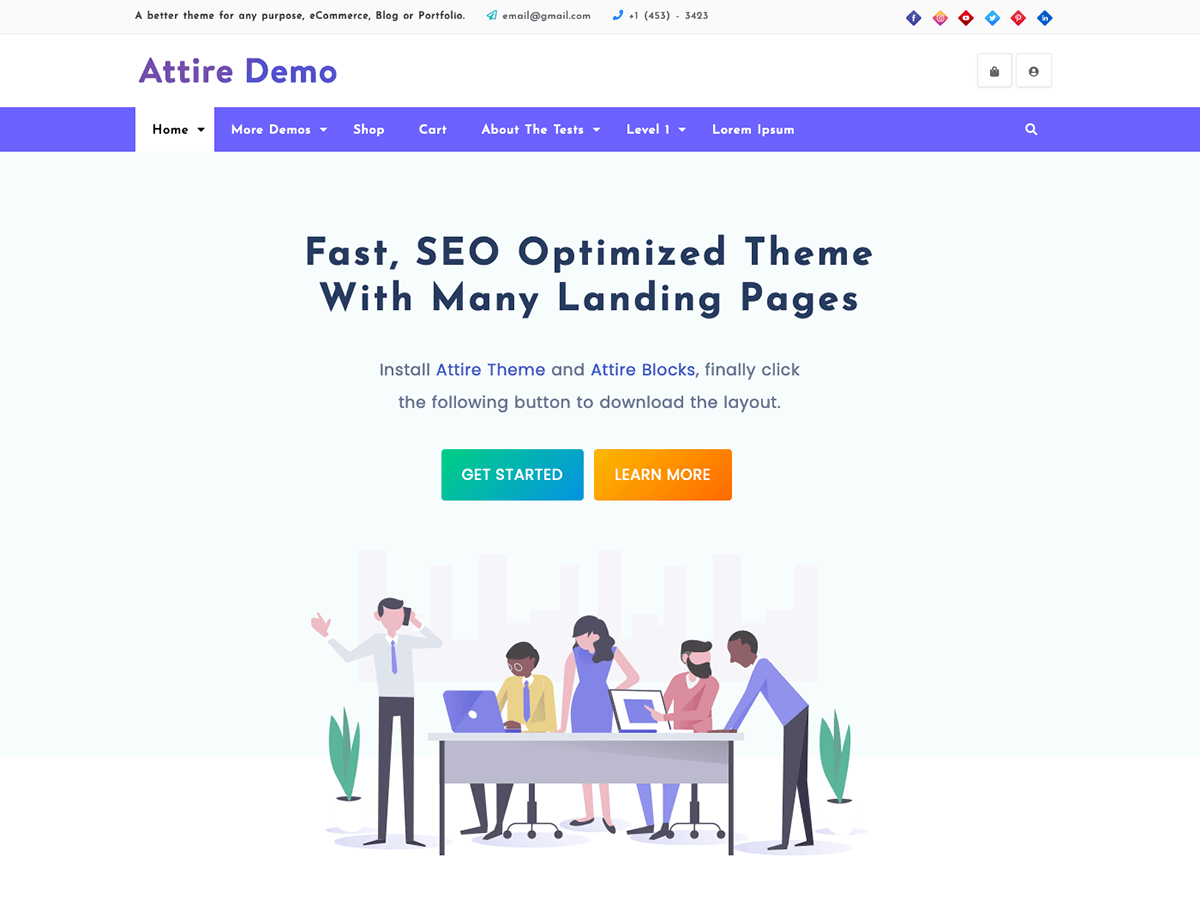
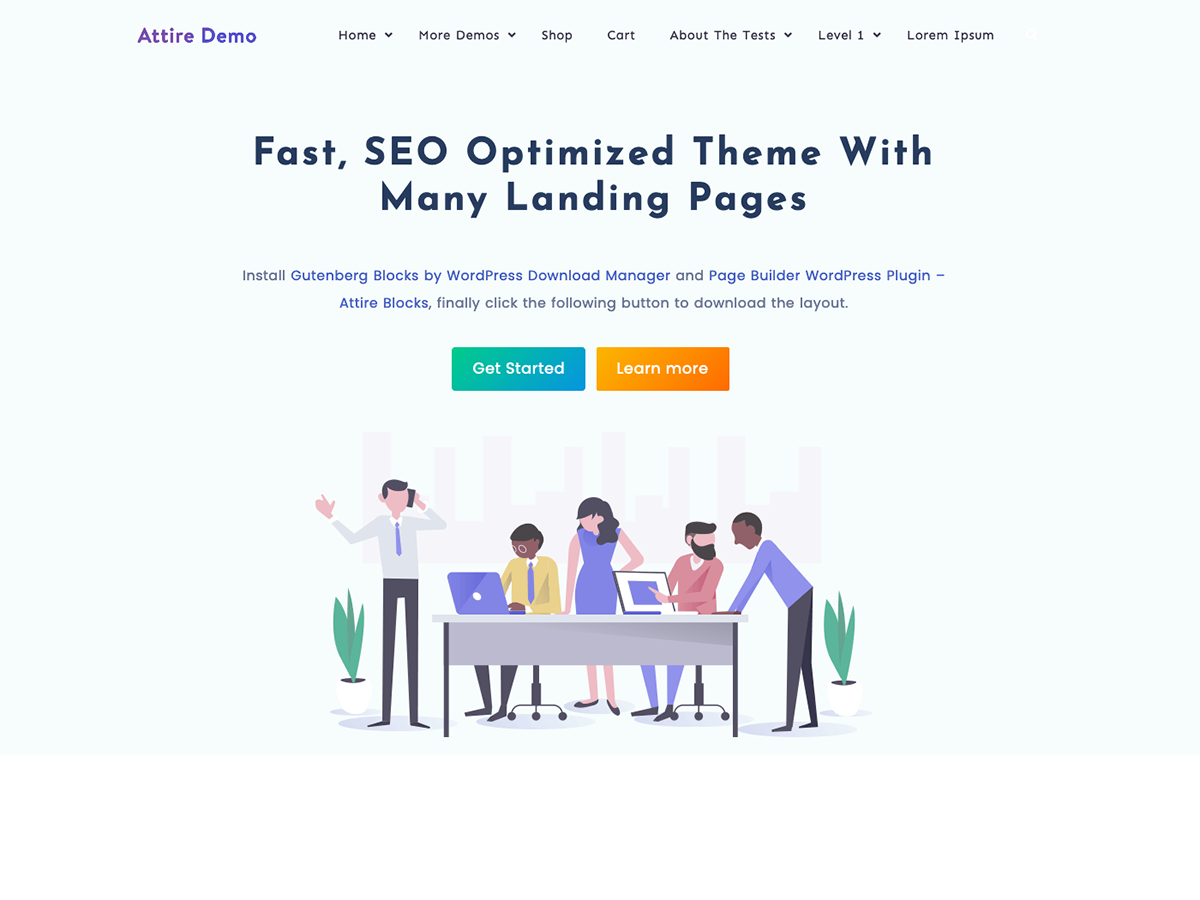
Improved page specific theme settings

diff --git a/style.css b/style.css
@@ -3,7 +3,7 @@ Theme Name: Attire
 Theme URI: https://wpattire.com/
 Description: Attire is a fast, mobile responsive, highly customizable, SEO friendly multipurpose theme. It was built with the Gutenberg editor in mind and offers hundreds of customisation options which allows to make a website look exactly the way you intended. Create any type of website, such as business agency, shop, corporate, education, restaurant, blog, portfolio, landing page and so on. This theme allows to customise pages with google-fonts, page background, page header and sidebars. Try Demo: http://demo.wpattire.com. Attire is # WooCommerce Ready # Gutenberg Block Ready # RTL & Translation Ready # Also Compatible with all major page builders like elementor, divi, visual composer.
 Author: Shafayat
-Version: 1.4.6
+Version: 1.4.7
 Tested up to: 5.4.2
 Requires PHP: 5.6
 License: GNU General Public License v3.0

diff --git a/admin/metaboxes/attire-page-options.php b/admin/metaboxes/attire-page-options.php
@@ -19,21 +19,21 @@ include dirname(__DIR__).'/customizer-config.php';
     <div class="form-group">
 
         <div class='form-group'>
-            <label for="nav_header"><?php _e('Top Menu Style', 'attire') ?></label>
-            <select id="nav_header" class="d-block" name="attire_post_meta[nav_header]">
+            <label for="nav_header" class="d-block"><?php _e('Top Menu Style', 'attire') ?></label>
+            <select id="nav_header" name="attire_post_meta[nav_header]">
                 <option value="" <?php selected("", $nav_header) ?>><?php _e('Theme Default', 'attire') ?></option>
-                <option value="header-1" <?php selected(1, $nav_header) ?>><?php _e('Nav Style 1', 'attire') ?></option>
-                <option value="header-2" <?php selected(2, $nav_header) ?>><?php _e('Nav Style 2', 'attire') ?></option>
-                <option value="header-3" <?php selected(3, $nav_header) ?>><?php _e('Nav Style 3', 'attire') ?></option>
-                <option value="header-4" <?php selected(4, $nav_header) ?>><?php _e('Nav Style 4', 'attire') ?></option>
-                <option value="header-5" <?php selected(5, $nav_header) ?>><?php _e('Nav Style 5', 'attire') ?></option>
-                <option value="header-6" <?php selected(6, $nav_header) ?>><?php _e('Nav Style 6', 'attire') ?></option>
+                <option value="header-1" <?php selected(1, $nav_header) ?>><?php _e('Default', 'attire') ?></option>
+                <option value="header-2" <?php selected(2, $nav_header) ?>><?php _e('Compact', 'attire') ?></option>
+                <option value="header-3" <?php selected(3, $nav_header) ?>><?php _e('Narrow', 'attire') ?></option>
+                <option value="header-4" <?php selected(4, $nav_header) ?>><?php _e('Centered', 'attire') ?></option>
+                <option value="header-5" <?php selected(5, $nav_header) ?>><?php _e('Extended', 'attire') ?></option>
+                <option value="header-6" <?php selected(6, $nav_header) ?>><?php _e('Transparent', 'attire') ?></option>
             </select>
         </div>
 
     </div>
     <div class='form-group'>
-        <label><?php _e('Page Header', 'attire') ?></label>
+        <label class="d-block"><?php _e('Page Header', 'attire') ?></label>
         <select id="page_header" class="d-block" name="attire_post_meta[page_header]">
             <option value="-1" <?php selected(-1, $page_header) ?>><?php _e('Theme Default', 'attire') ?></option>
             <option value="1" <?php selected(1, $page_header) ?>><?php _e('Show', 'attire') ?></option>
@@ -51,5 +51,8 @@ include dirname(__DIR__).'/customizer-config.php';
         <label style='font-weight: normal' for='htm1'><?php echo __("Hide Site Footer", "attire"); ?></label>
     </div>
 </div>
+<style>
+    .d-block{ display: block; float: none; margin-bottom: 5px; }
+</style>
 
 

diff --git a/libs/MetaBoxes.class.php b/libs/MetaBoxes.class.php
@@ -156,7 +156,6 @@ class AttireMetaBoxes {
         }
 
         function headerFooter( $post ){
-
 	        include dirname(__DIR__).'/admin/metaboxes/attire-page-options.php';
 
         }
